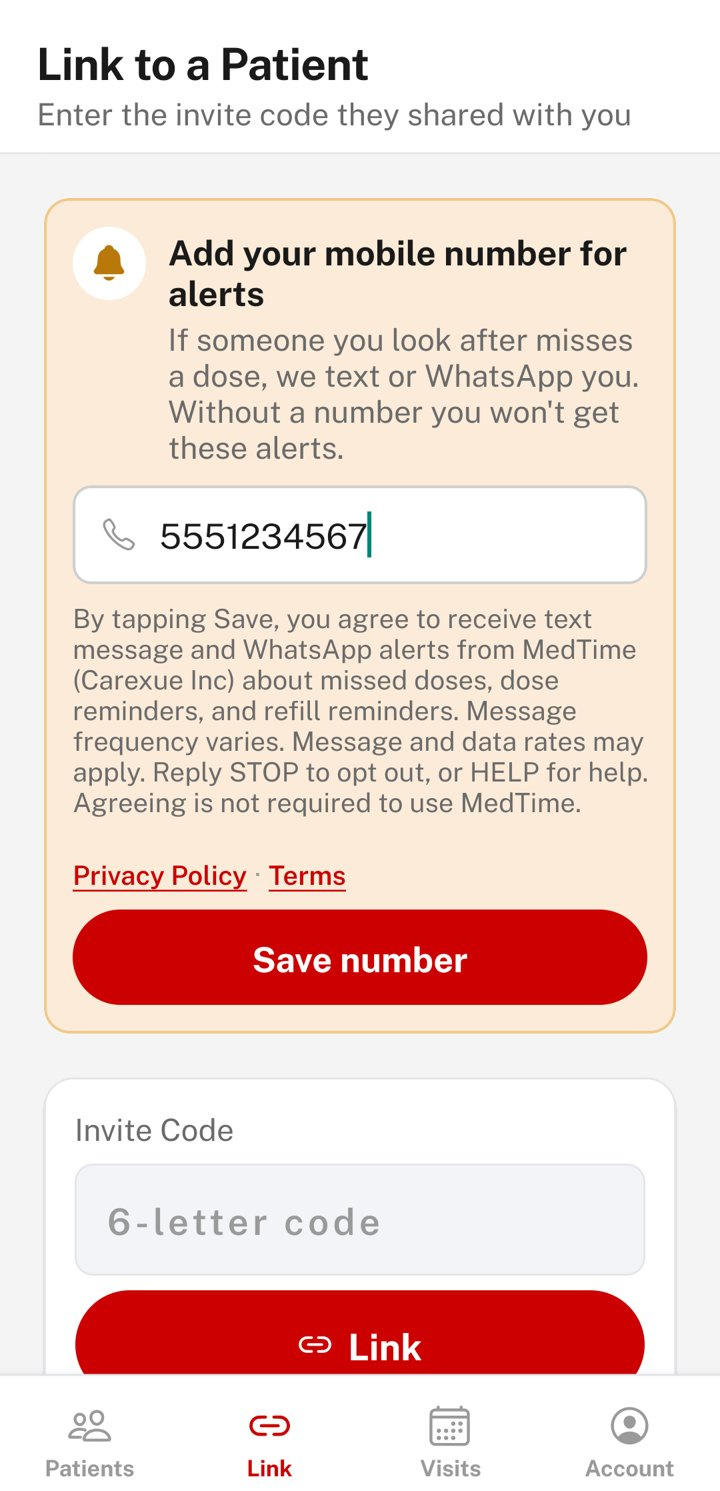
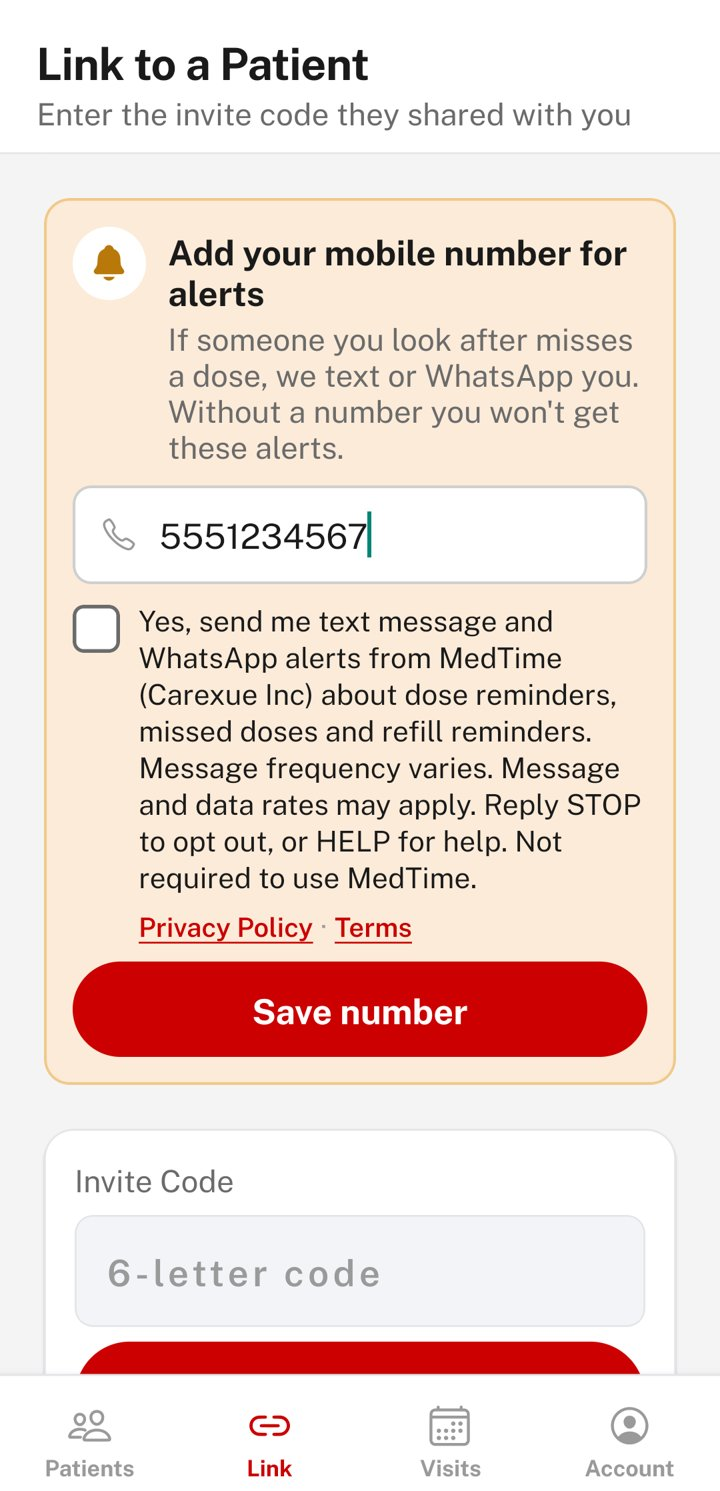
Opt-in page: SMS consent is a separate checkbox, unticked by default, on every number field; new screenshots (unticked) and a ticked example; consent is recorded and not required to use the app

Changed region(s): [[0.0611, 0.4011, 0.9472, 0.9256]]

diff --git a/sms-opt-in.html b/sms-opt-in.html
@@ -77,24 +77,24 @@
     </ul>
 
     <h2>How someone opts in</h2>
-    <p>A person receives text or WhatsApp alerts only after they enter <strong>their own mobile number</strong> in the MedTime app, directly above the consent wording shown below, and save it. There are three places this can happen, and the same wording appears under the number field in each:</p>
+    <p>A person receives text or WhatsApp alerts only after they enter <strong>their own mobile number</strong> in the MedTime app <strong>and tick a separate SMS consent checkbox</strong> directly below it. The checkbox is <strong>always unticked by default</strong>: nothing is pre-selected, and saving a number without ticking it never signs anyone up for messages. The same checkbox appears under the number field in all three places a number can be entered:</p>
     <ol>
       <li><strong>Sign-up</strong>, step 4 "How can we reach you?" (the number is optional).</li>
-      <li>The caregiver's <strong>"Add your mobile number for alerts"</strong> card, by tapping <strong>Save number</strong>.</li>
+      <li>The caregiver's <strong>"Add your mobile number for alerts"</strong> card. Tapping <strong>Save number</strong> without ticking the box shows "Tick the box to agree to alerts, then tap Save number." and saves nothing.</li>
       <li>The <strong>Account</strong> page, when someone adds or changes their number.</li>
     </ol>
-    <p>Giving a number and agreeing to alerts is not required to use MedTime. People can remove their number in the app at any time.</p>
+    <p>Ticking the box is not required to use MedTime. When someone ticks it, we record the date and time, where in the app they ticked it, and the exact wording they agreed to. People can untick it or remove their number in the app at any time, or reply STOP.</p>
 
     <div class="shots">
-      <figure><img src="images/sms-optin-signup.jpg" alt="MedTime sign-up step 4 with the mobile number field and the text message consent wording directly below it"><figcaption><strong>Sign-up, step 4.</strong> The consent wording sits directly under the mobile number field, with links to our Privacy Policy and Terms.</figcaption></figure>
-      <figure><img src="images/sms-optin-caregiver.jpg" alt="MedTime caregiver card to add a mobile number for alerts, with the consent wording above the Save number button"><figcaption><strong>Caregiver alerts card.</strong> The caregiver enters their number and taps <em>Save number</em> directly below the consent wording.</figcaption></figure>
+      <figure><img src="images/sms-optin-signup.jpg" alt="MedTime sign-up step 4 with the mobile number field and the text message consent wording directly below it"><figcaption><strong>Sign-up, step 4.</strong> A separate SMS consent checkbox, unticked by default, sits directly under the mobile number field, with links to our Privacy Policy and Terms.</figcaption></figure>
+      <figure><img src="images/sms-optin-caregiver.jpg" alt="MedTime caregiver card to add a mobile number for alerts, with the consent wording above the Save number button"><figcaption><strong>Caregiver alerts card.</strong> The consent checkbox is unticked by default; the number is saved only after the caregiver ticks it and taps <em>Save number</em>.</figcaption></figure>
     </div>
 
-    <h2>The exact consent wording in the app</h2>
-    <p>Under the number at sign-up and on the Account page:</p>
-    <p class="consent">By adding your number, you agree to receive text message and WhatsApp alerts from MedTime (Carexue Inc) about dose reminders, missed doses and refill reminders. Message frequency varies. Message and data rates may apply. Reply STOP to opt out, or HELP for help. Agreeing is not required to use MedTime.</p>
-    <p>On the caregiver card, above the Save number button:</p>
-    <p class="consent">By tapping Save, you agree to receive text message and WhatsApp alerts from MedTime (Carexue Inc) about missed doses, dose reminders, and refill reminders. Message frequency varies. Message and data rates may apply. Reply STOP to opt out, or HELP for help. Agreeing is not required to use MedTime.</p>
+    <h2>The exact consent checkbox in the app</h2>
+    <p>The checkbox label, identical on all three screens:</p>
+    <p class="consent">☐ Yes, send me text message and WhatsApp alerts from MedTime (Carexue Inc) about dose reminders, missed doses and refill reminders. Message frequency varies. Message and data rates may apply. Reply STOP to opt out, or HELP for help. Not required to use MedTime.</p>
+    <p>What it looks like once the person has ticked it themselves:</p>
+    <p><img src="images/sms-optin-ticked.jpg" alt="The MedTime SMS consent checkbox after the user has ticked it" style="width:100%; max-width:520px; border-radius:12px; border:1px solid var(--line);"></p>
 
     <h2>Frequency, cost and replies</h2>
     <table class="kw">
